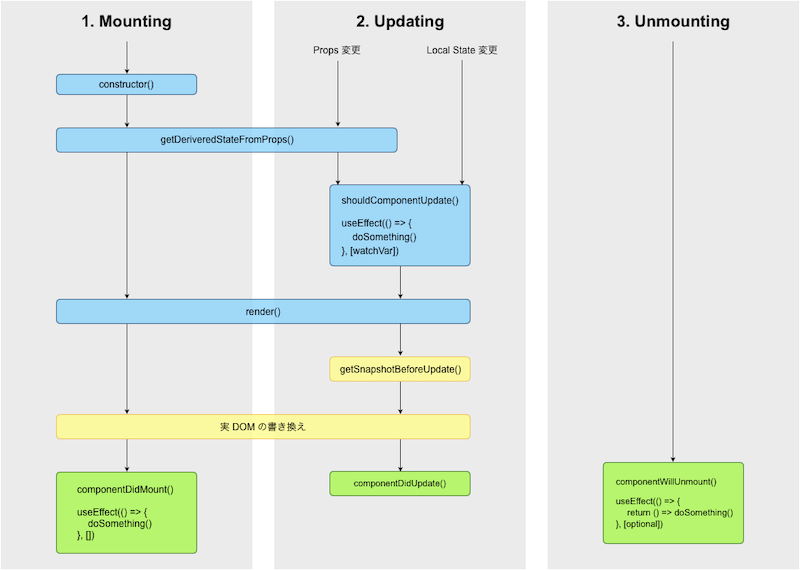
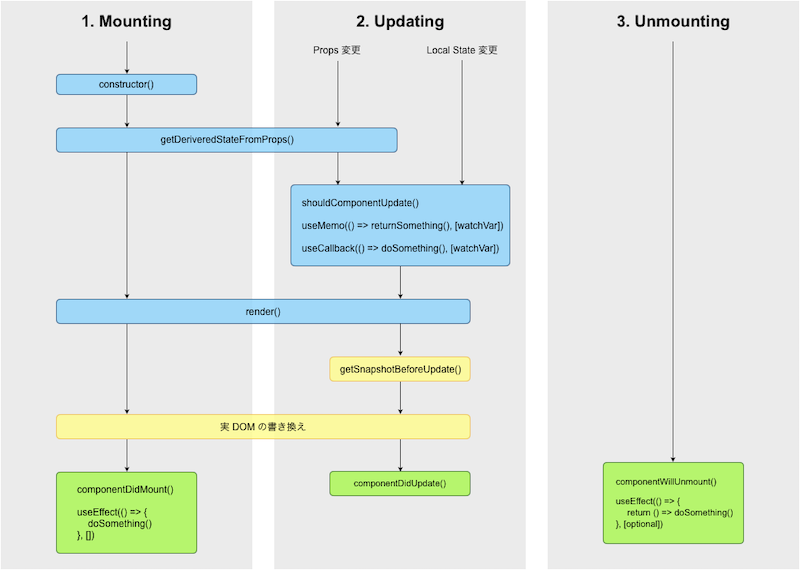
fix: shouldComponentUpdate process

Changed region(s): [[0.3438, 0.2982, 0.6562, 0.4772]]

diff --git a/react-ts/syntax.md b/react-ts/syntax.md
@@ -129,6 +129,7 @@ useEffect(() => {
 
 - 任意の処理結果を再計算せず保持しておける
 - 再レンダリングによる不要な処理を避けることが目的
+- 副作用処理には `useEffect()` を使う
 
 ```js
 const memoVal = useMemo(() => {
@@ -174,6 +175,7 @@ const Parent = ({a, b}) => {
 
 - 任意の関数を再定義せず保持しておける
 - 再レンダリングによる関数の再定義を避けることが目的
+- 副作用処理には `useEffect()` を使う
 - 基本的な挙動は `useMemo()` と同じ
   - `戻り値が関数である点が異なる
 
